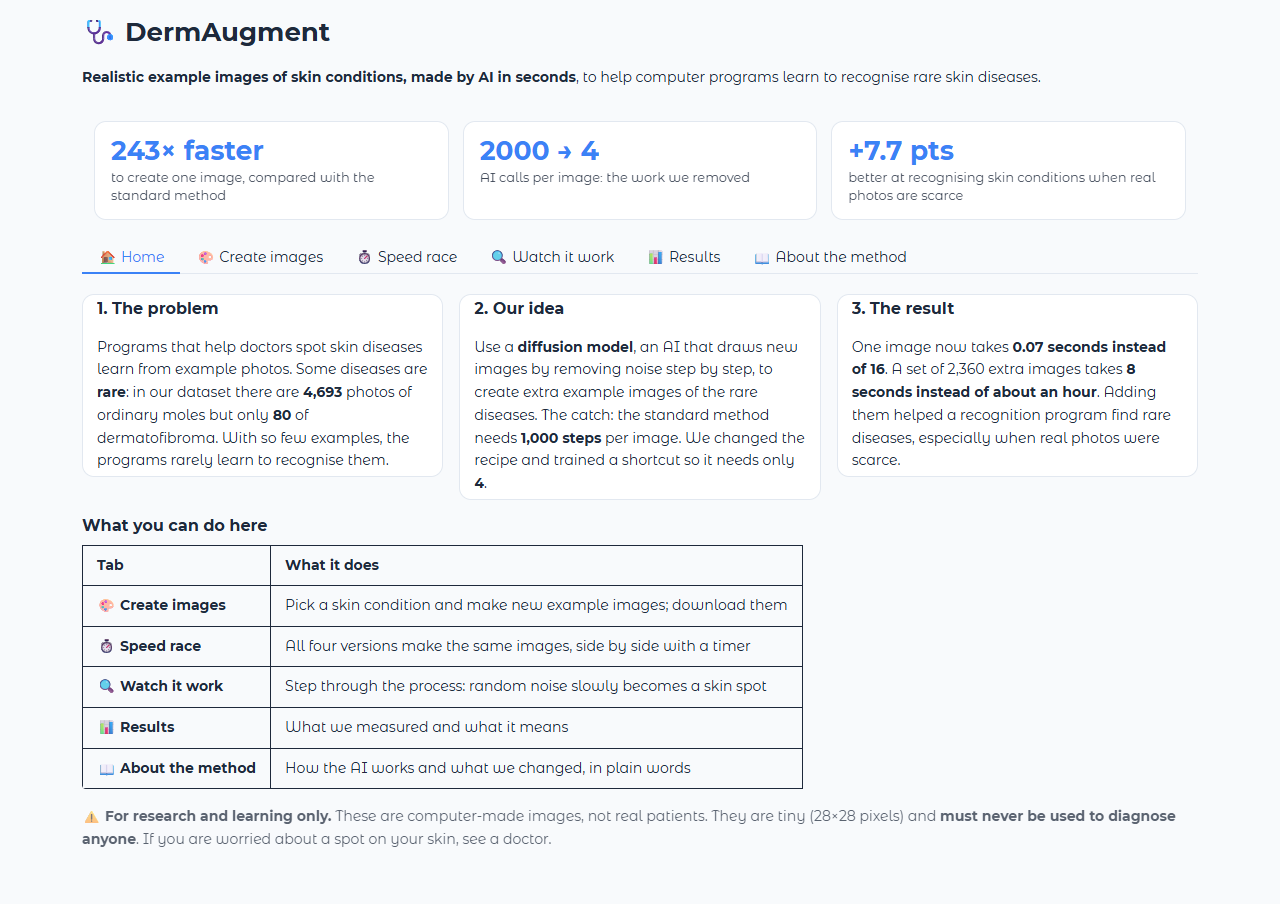
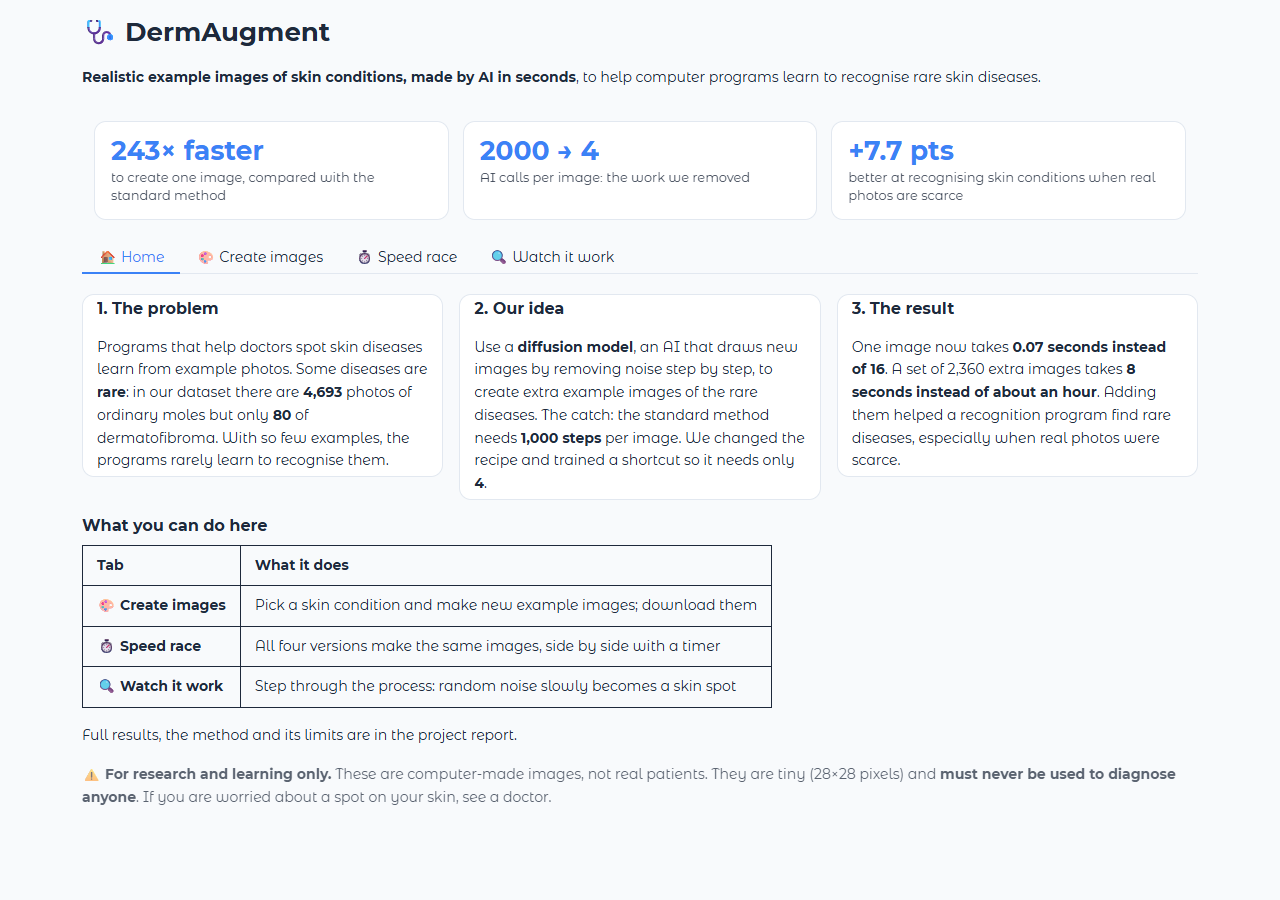
Demo: keep four tabs (Home, Create images, Speed race, Watch it work)

diff --git a/app/app.py b/app/app.py
@@ -1,7 +1,7 @@
 """DermAugment: Gradio demo for FastDiff-Med.
 
 Tabs: Home (the story), Create images (generate + download), Speed race (all engines side by side),
-Watch it work (step through the denoising process), Results, About the method.
+Watch it work (step through the denoising process).
 
 Used three ways:
   * notebook 04:  from app.app import build_demo, launch_demo, load_engines
@@ -438,9 +438,8 @@ def build_demo(engines, results_dir="results"):
                         "| Tab | What it does |\n|---|---|\n"
                         "| 🎨 **Create images** | Pick a skin condition and make new example images; download them |\n"
                         "| ⏱ **Speed race** | All four versions make the same images, side by side with a timer |\n"
-                        "| 🔍 **Watch it work** | Step through the process: random noise slowly becomes a skin spot |\n"
-                        "| 📊 **Results** | What we measured and what it means |\n"
-                        "| 📖 **About the method** | How the AI works and what we changed, in plain words |")
+                        "| 🔍 **Watch it work** | Step through the process: random noise slowly becomes a skin spot |\n\n"
+                        "Full results, the method and its limits are in the project report.")
 
         # ------------------------------------------------------------------ Create
         with gr.Tab("🎨 Create images"):
@@ -526,58 +525,6 @@ def build_demo(engines, results_dir="results"):
                              [ex_current, ex_guesses, ex_step, ex_now, ex_guess, ex_text, ex_seed])
             ex_step.change(show_step, [ex_step, ex_current, ex_guesses], [ex_now, ex_guess, ex_text])
 
-        # ------------------------------------------------------------------ Results
-        with gr.Tab("📊 Results"):
-            gr.Markdown(plain_summary(results_dir))
-            charts = [("augmentation.png", "Does adding AI images help? (taller bars = better at "
-                                           "recognising all conditions, including rare ones)"),
-                      ("latency.png", "Time to make one image (shorter = faster)"),
-                      ("sample_grid_compare.png", "Example images from each version (one row per condition)"),
-                      ("fid_vs_steps.png", "Image quality vs. number of steps (lower = better)")]
-            for fname, label in charts:
-                path = os.path.join(results_dir, fname)
-                if os.path.exists(path):
-                    gr.Image(path, label=label, interactive=False)
-            with gr.Accordion("🔬 Detailed numbers (for experts)", open=False):
-                gr.Markdown(impact_markdown(results_dir))
-
-        # ------------------------------------------------------------------ About
-        with gr.Tab("📖 About the method"):
-            gr.Markdown("""
-### How does the AI make images?
-It's a **diffusion model**. During training it practised on thousands of real skin photos: we added random
-"static" (noise) to each photo, and the AI learned to remove it. To make a **new** image, it starts from pure
-static and removes the noise bit by bit until a realistic skin spot appears. You can watch this in the
-🔍 **Watch it work** tab.
-
-### Why was it slow, and what did we change?
-The standard method removes the noise in **1,000 tiny steps**, so 1,000 runs of the AI per image
-(2,000 with the extra "follow the chosen condition" check, called guidance). We made it fast in two stages:
-
-1. **A smarter recipe (1,000 → 20 steps).** We changed *how* noise is added during training (a smoother
-   "cosine" schedule) and *what* the AI predicts (a more stable target called "v"). Then each step does more
-   useful work, so 20 steps are enough.
-2. **Shortcut training (20 → 4 steps).** A "student" copy of the AI watched the "teacher" and learned to do
-   two steps in one. We repeated this until only **4 steps** were needed. The student also learned the
-   guidance check, so each step needs just one run of the AI.
-
-**Result:** 4 runs of the AI per image instead of 2,000, with the same network and the same training data.
-
-### What are the limits?
-* Images are tiny (28×28 pixels), like the real dataset.
-* The 4-step images are slightly less detailed than the slow original's.
-* The training photos come mostly from people with lighter skin, so the images (and programs trained on
-  them) may represent darker skin poorly.
-* This is a research prototype, **not a medical tool**.
-""")
-            with gr.Accordion("🔬 Technical summary (for experts)", open=False):
-                gr.Markdown("Class-conditional U-Net trained on DermaMNIST (32×32). Baseline: linear β schedule, "
-                            "ε-prediction, 1000-step DDPM ancestral sampling with classifier-free guidance (w = 2). "
-                            "Stage 1: cosine schedule + v-prediction + DDIM with trailing timesteps (20 steps). "
-                            "Stage 2: progressive distillation 32 → 16 → 8 → 4 steps with guidance folded into the "
-                            "student, truncated-SNR weighting. Metrics: FID (torch-fidelity), class accuracy via a "
-                            "ResNet-18 judge, latency on a T4, and downstream ResNet-18 balanced accuracy / macro-F1 "
-                            f"with synthetic rare-class augmentation. Running on **{device}**.")
         gr.Markdown(DISCLAIMER, elem_classes="note")
     return demo
 

diff --git a/README.md b/README.md
@@ -7,7 +7,7 @@
 > A 2,360-image synthetic training set takes **8 seconds** with the 4-step student vs **~65 minutes** with the
 > 1000-step baseline.
 
-**Demo (DermAugment):** a Gradio app in six tabs: *Home* (the story and headline numbers), *Create images* (choose a skin condition and a speed, watch images form live, compare with real photos, download a ZIP of 28×28 PNGs), *Speed race* (all four engines side by side with timers), *Watch it work* (a slider through the denoising steps showing the model's guess of the final image), *Results* and *About the method*. Run `python -m app.app` (works on CPU) or [notebook 04](notebooks/04_demo_gradio.ipynb).
+**Demo (DermAugment):** a Gradio app in four tabs: *Home* (the story and headline numbers), *Create images* (choose a skin condition and a speed, watch images form live, compare with real photos, download a ZIP of 28×28 PNGs), *Speed race* (all four engines side by side with timers) and *Watch it work* (a slider through the denoising steps showing the model's guess of the final image). Run `python -m app.app` (works on CPU) or [notebook 04](notebooks/04_demo_gradio.ipynb).
 
 ![DermAugment](docs/screenshots/2_create.png)
 
